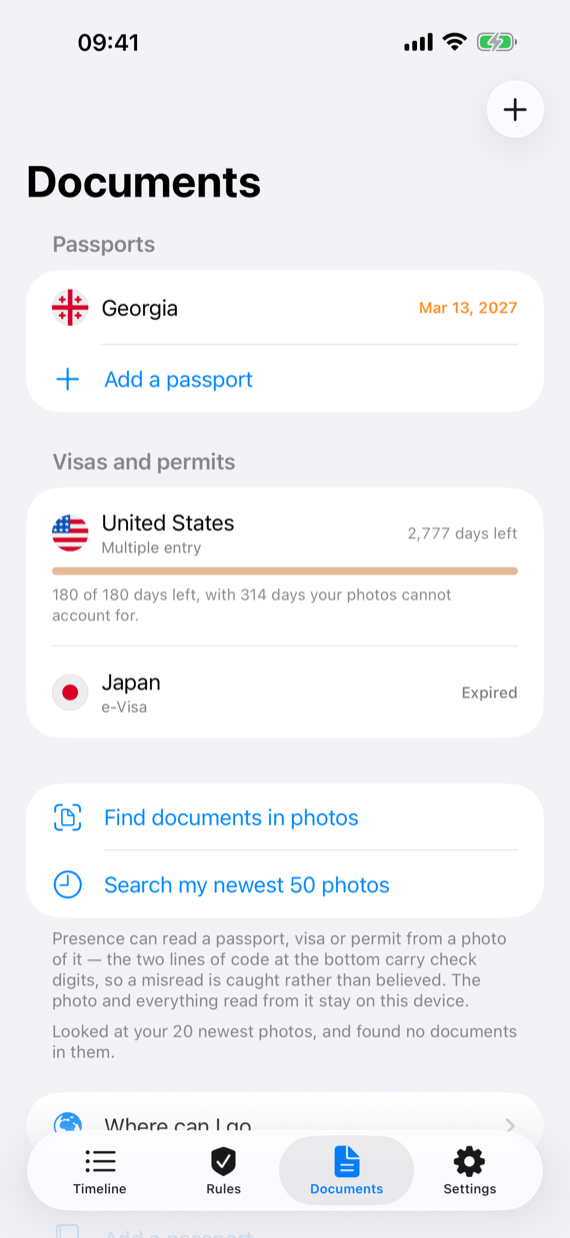
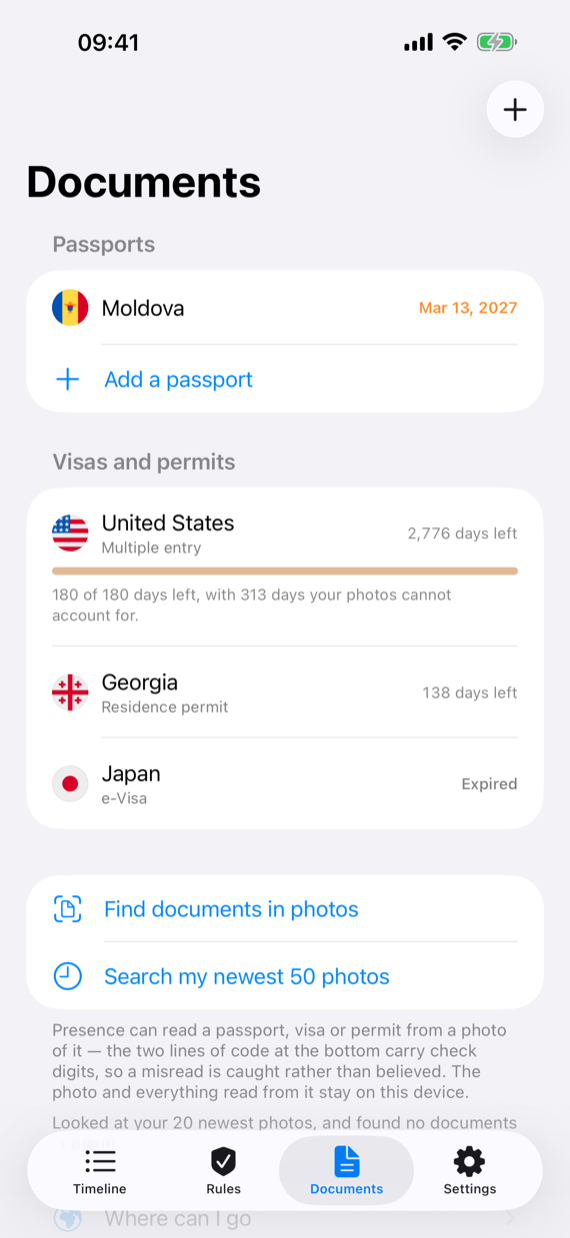
Newer screenshots
The same screens, photographed again: a residence permit among the
documents, this year's trips no longer all marked uncertain, and the
alt text brought in line with the numbers now on them.

Claude-Session: https://claude.ai/code/session_01WU8VTaHMtVLH5tU1qtQYv2

diff --git a/index.html b/index.html
@@ -47,16 +47,16 @@
     <section class="gallery" aria-label="Screenshots">
       <figure>
         <img src="./shots/01-timeline.png" width="570" height="1238" loading="lazy"
-             alt="The timeline: the country you are in now, Schengen days left, then every country by days spent, each with a range rather than a single number.">
+             alt="The timeline: the country you are in now, 23 Schengen days left, then every country by days spent, with a range where the photographs leave a gap.">
         <figcaption>Every country, with the range the evidence actually supports.</figcaption>
       </figure>
       <figure>
         <img src="./shots/02-country.png" width="570" height="1238" loading="lazy"
-             alt="A country screen: 284 to 343 days, broken into confirmed, inferred and uncertain, with the stays beneath.">
+             alt="A country screen: 316 to 330 days, broken into confirmed, inferred and uncertain, with the stays beneath.">
         <figcaption>And where each of those days came from.</figcaption>
       </figure>
       <figure>
-        <img src="./shots/03-trips.png" width="570" height="1238" loading="lazy"
+        <img src="./shots/07-trips.png" width="570" height="1238" loading="lazy"
              alt="The same days grouped as trips, each with its dates and how many countries it crossed.">
         <figcaption>The same days read as journeys instead of totals.</figcaption>
       </figure>

diff --git a/pro/index.html b/pro/index.html
@@ -48,13 +48,13 @@
 
       <div class="gallery">
         <figure>
-          <img src="../shots/04-rules.png" width="570" height="1238" loading="lazy"
-               alt="The Rules screen: 22 Schengen days left of 90, and the 183-day count for each country this tax year.">
+          <img src="../shots/03-rules.png" width="570" height="1238" loading="lazy"
+               alt="The Rules screen: 23 Schengen days left of 90, and the 183-day count for each country this tax year.">
           <figcaption>The counts are free. Being told before they run out is Pro.</figcaption>
         </figure>
         <figure>
           <img src="../shots/05-documents.png" width="570" height="1238" loading="lazy"
-               alt="The Documents screen: a passport expiring in March 2027, a multiple-entry visa with 2,777 days left, and an expired e-Visa.">
+               alt="The Documents screen: a passport expiring in March 2027, a multiple-entry visa with 2,776 days left, a residence permit with 138 days left, and an expired e-Visa.">
           <figcaption>Documents without limit, each with its deadline.</figcaption>
         </figure>
         <figure>
